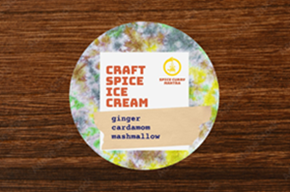
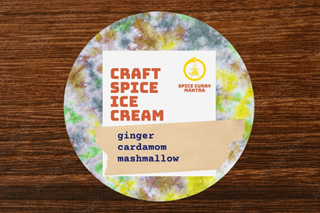
topアイスセクション作成中

diff --git a/app/javascript/stylesheets/application.scss b/app/javascript/stylesheets/application.scss
@@ -76,6 +76,8 @@
 .toppage-ice-card {
   border: 3px solid black !important;
   border-radius: 10px;
+  padding: 10px !important;
+  justify-content: center !important;
 }
 
 .toppage-ice-card:hover {
@@ -84,4 +86,13 @@
 
 .ice-img {
   border: 2px solid black !important;
+}
+
+
+
+
+@media screen and (max-width:1440px) {
+  .ice-img {
+    max-width: 100%;
+  }
 }
